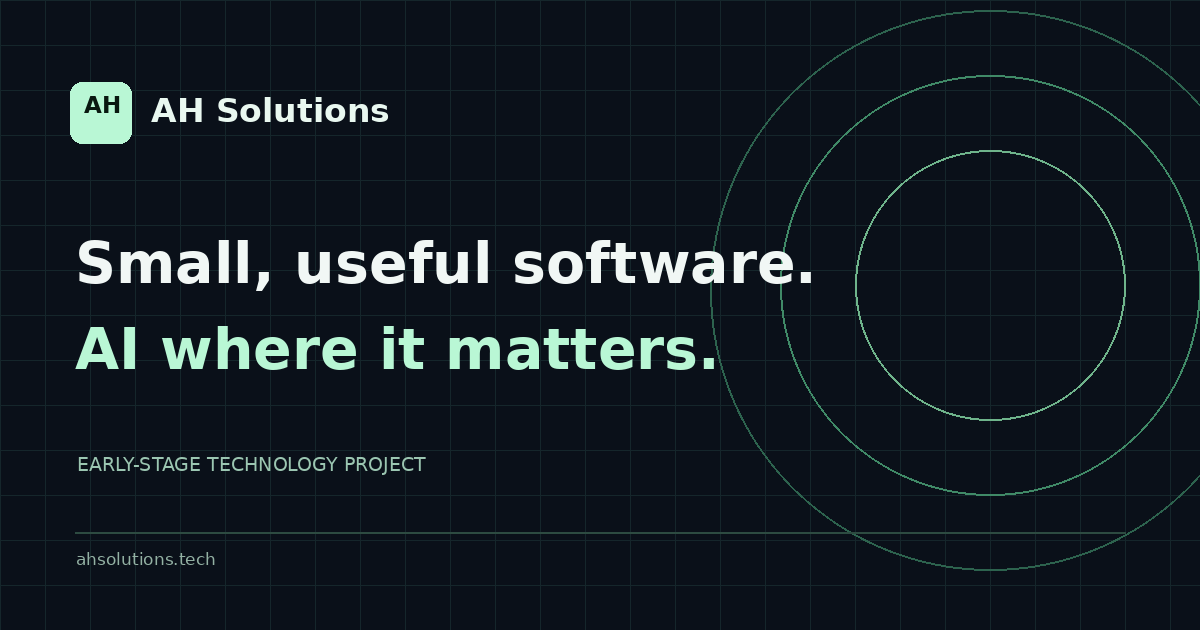
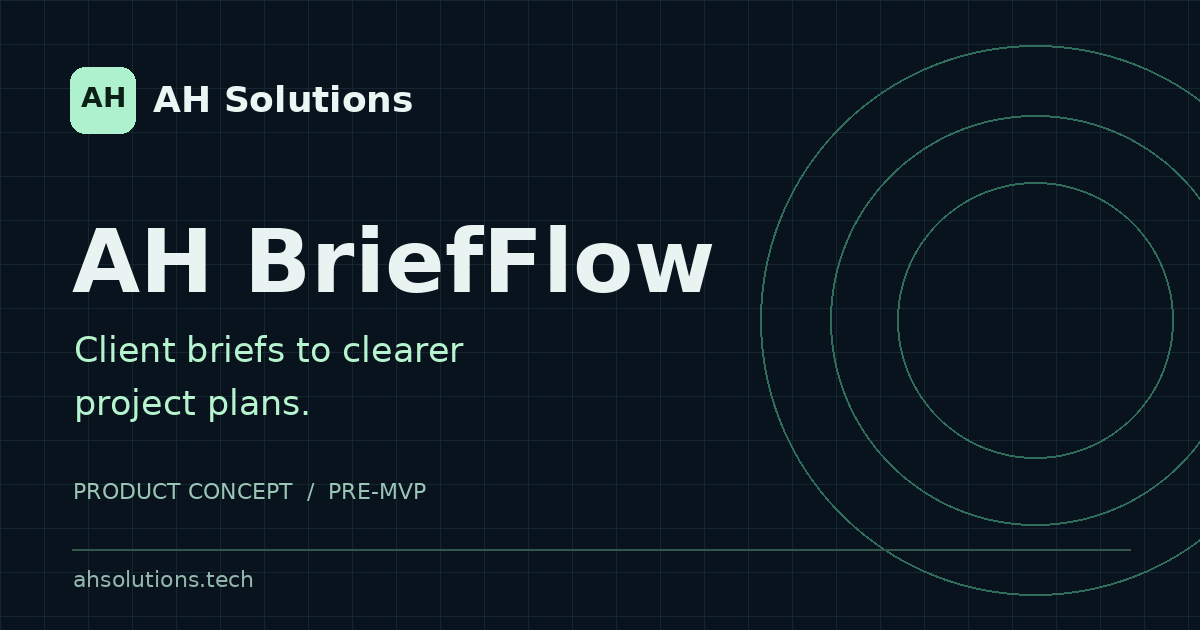
Introduce AH BriefFlow product concept

diff --git a/index.html b/index.html
@@ -5,21 +5,21 @@
     <meta name="viewport" content="width=device-width, initial-scale=1.0" />
     <meta name="theme-color" content="#0a1019" />
     <meta name="color-scheme" content="dark" />
-    <title>AH Solutions — Exploring Practical AI Software</title>
-    <meta name="description" content="AH Solutions is an early-stage technology project exploring practical software around modern AI capabilities. Learn about our direction and get in touch." />
+    <title>AH Solutions — AH BriefFlow | AI Client Brief &amp; Proposal Agent</title>
+    <meta name="description" content="AH BriefFlow is a proposed AI-assisted workflow by AH Solutions for turning unstructured client briefs into organized requirements, clarification questions, and proposal drafts. Concept stage; pre-MVP." />
     <meta name="robots" content="index,follow" />
     <link rel="canonical" href="https://ahsolutions.tech/" />
     <link rel="icon" href="/favicon.svg" type="image/svg+xml" />
     <meta property="og:type" content="website" />
     <meta property="og:site_name" content="AH Solutions" />
-    <meta property="og:title" content="AH Solutions — Exploring Practical AI Software" />
-    <meta property="og:description" content="Small, useful software. AI where it matters. An early-stage technology project focused on practical problems." />
+    <meta property="og:title" content="AH Solutions — AH BriefFlow (Concept)" />
+    <meta property="og:description" content="AH BriefFlow is an early-stage AI agent concept to turn client briefs into requirements, clarification questions, and proposal drafts. Pre-MVP." />
     <meta property="og:url" content="https://ahsolutions.tech/" />
     <meta property="og:image" content="https://ahsolutions.tech/og-card.png" />
-    <meta property="og:image:alt" content="AH Solutions, exploring practical AI software" />
+    <meta property="og:image:alt" content="AH Solutions brand visual for the AH BriefFlow concept" />
     <meta name="twitter:card" content="summary_large_image" />
-    <meta name="twitter:title" content="AH Solutions — Exploring Practical AI Software" />
-    <meta name="twitter:description" content="Small, useful software. AI where it matters." />
+    <meta name="twitter:title" content="AH Solutions — AH BriefFlow (Concept)" />
+    <meta name="twitter:description" content="AH BriefFlow: from client briefs to clearer project plans." />
     <meta name="twitter:image" content="https://ahsolutions.tech/og-card.png" />
     <link rel="stylesheet" href="/src/styles.css" />
     <script type="module" src="/src/main.ts"></script>
@@ -34,7 +34,7 @@
             <span class="brand-name">AH <span>Solutions</span></span>
           </a>
           <nav class="desktop-nav" aria-label="Main navigation">
-            <a href="#product">Our focus</a>
+            <a href="#product">AH BriefFlow</a>
             <a href="#approach">Approach</a>
             <a href="#vision">Vision</a>
           </nav>
@@ -42,7 +42,7 @@
           <details class="mobile-nav">
             <summary aria-label="Toggle menu"><span></span><span></span><span></span></summary>
             <nav aria-label="Mobile navigation">
-              <a href="#product">Our focus</a>
+              <a href="#product">AH BriefFlow</a>
               <a href="#approach">Approach</a>
               <a href="#vision">Vision</a>
               <a href="#contact">Contact</a>
@@ -54,63 +54,64 @@
       <main id="main">
         <section class="hero container" id="top" aria-labelledby="hero-title">
           <div class="hero-content">
-            <div class="eyebrow"><span class="status-dot" aria-hidden="true"></span> EARLY-STAGE TECHNOLOGY PROJECT</div>
-            <h1 id="hero-title">Small, useful software.<br /><em>AI where it matters.</em></h1>
-            <p class="hero-description">AH Solutions explores how modern AI can become practical, thoughtfully designed software for real-world workflows.</p>
-            <p class="hero-stage"><span aria-hidden="true">↗</span> Current stage: exploring our first focused product direction.</p>
+            <div class="eyebrow"><span class="status-dot" aria-hidden="true"></span> EARLY-STAGE PRODUCT CONCEPT · PRE-MVP</div>
+            <h1 id="hero-title">Turn messy client briefs<br /><em>into clearer project plans.</em></h1>
+            <p class="hero-description">AH BriefFlow is a proposed AI-assisted workflow for small software agencies and independent development teams: structure client requirements, identify missing details, and prepare proposal drafts for human review.</p>
+            <p class="hero-stage"><span aria-hidden="true">↗</span> Current stage: product concept selected; no public MVP or Claude API integration yet.</p>
             <div class="hero-actions">
-              <a class="button button-primary" href="#product">What we're exploring <span aria-hidden="true">↗</span></a>
+              <a class="button button-primary" href="#product">Explore the concept <span aria-hidden="true">↗</span></a>
               <a class="button button-secondary" href="mailto:anhdt@ahsolutions.tech">Contact us <span aria-hidden="true">↗</span></a>
             </div>
           </div>
           <div class="hero-visual" aria-hidden="true">
-            <div class="visual-top"><span>AH / EXPLORATION</span><span class="visual-plus">+</span></div>
+            <div class="visual-top"><span>AH / BRIEFFLOW · CONCEPT</span><span class="visual-plus">+</span></div>
             <div class="visual-center">
               <div class="orbit orbit-outer"></div><div class="orbit orbit-inner"></div>
               <div class="orbit-core">AH<span>●</span></div>
-              <div class="floating-tag tag-one">PROBLEM FIRST</div>
-              <div class="floating-tag tag-two">HUMAN IN CONTROL</div>
+              <div class="floating-tag tag-one">BRIEF → PLAN</div>
+              <div class="floating-tag tag-two">HUMAN REVIEW</div>
               <div class="tiny-point point-one"></div><div class="tiny-point point-two"></div>
             </div>
-            <div class="visual-bottom"><span>Direction over hype</span><span>01 / 03</span></div>
+            <div class="visual-bottom"><span>Product concept · pre-MVP</span><span>01 / 03</span></div>
           </div>
         </section>
 
         <section class="divider-section" aria-label="Our principles">
-          <div class="container principles-row"><span>Problem-led</span><i aria-hidden="true"></i><span>Carefully scoped</span><i aria-hidden="true"></i><span>Human-centered</span><i aria-hidden="true"></i><span>Built to be useful</span></div>
+          <div class="container principles-row"><span>Brief analysis</span><i aria-hidden="true"></i><span>Missing questions</span><i aria-hidden="true"></i><span>Proposal drafts</span><i aria-hidden="true"></i><span>Human review</span></div>
         </section>
 
         <section id="product" class="section container" aria-labelledby="product-title">
-          <div class="section-heading"><div><span class="section-kicker">01 / OUR FOCUS</span><h2 id="product-title">Exploring what is <span>worth building.</span></h2></div><p>Our first product is not being presented as launched or available. We are defining where a focused AI-assisted workflow could be genuinely useful.</p></div>
+          <div class="section-heading"><div><span class="section-kicker">01 / PRODUCT CONCEPT</span><h2 id="product-title">Introducing <span>AH BriefFlow.</span></h2></div><p>A proposed AI client-brief and proposal agent for small software agencies and independent development teams. This concept is not yet a launched product.</p></div>
           <div class="focus-panel">
-            <div class="focus-intro"><span class="mini-status"><span></span> PRODUCT DIRECTION IN EXPLORATION</span><h3>From real workflow friction to a practical first product.</h3><p>Our aim is to identify a specific problem, build a small testable solution, and learn from actual usage before making bigger promises.</p></div>
-            <div class="steps" aria-label="Our planned development approach">
-              <div class="step"><span>01</span><div><h4>Understand</h4><p>Find one clear user problem.</p></div><span class="step-arrow" aria-hidden="true">↗</span></div>
-              <div class="step"><span>02</span><div><h4>Prototype</h4><p>Test a focused AI-assisted workflow.</p></div><span class="step-arrow" aria-hidden="true">↗</span></div>
-              <div class="step"><span>03</span><div><h4>Learn</h4><p>Improve based on concrete feedback.</p></div><span class="step-arrow" aria-hidden="true">↗</span></div>
+            <div class="focus-intro"><span class="mini-status"><span></span> CONCEPT STAGE · PRE-MVP</span><h3>From unstructured briefs to a reviewable first project plan.</h3><p><strong>The problem:</strong> Client requirements often arrive as long documents, fragmented messages, and incomplete descriptions. Teams must manually clarify scope before they can prepare reliable proposals.</p><p><strong>For:</strong> Small software agencies and independent development teams handling early-stage client requests.</p><p><strong>Proposed outcome:</strong> A structured first draft that people can check, edit, and approve.</p></div>
+            <div class="steps" aria-label="Proposed AH BriefFlow workflow">
+              <div class="step"><span>01</span><div><h4>Intake</h4><p>Paste a brief or upload a permitted project document.</p></div><span class="step-arrow" aria-hidden="true">↗</span></div>
+              <div class="step"><span>02</span><div><h4>Analyze</h4><p>Extract requirements, constraints, and missing details.</p></div><span class="step-arrow" aria-hidden="true">↗</span></div>
+              <div class="step"><span>03</span><div><h4>Draft</h4><p>Prepare clarification questions, scope, and proposal outline.</p></div><span class="step-arrow" aria-hidden="true">↗</span></div>
+              <div class="step"><span>04</span><div><h4>Review</h4><p>Keep final decisions, editing, and sharing with the human user.</p></div><span class="step-arrow" aria-hidden="true">↗</span></div>
             </div>
           </div>
-          <p class="section-footnote">This is our intended development process, not a claim of an existing product, customers, or results.</p>
+          <p class="section-footnote">This is the intended product workflow, not a working demo or a claim of existing users, results, or Claude integration.</p>
         </section>
 
         <section id="approach" class="section section-alt" aria-labelledby="approach-title">
           <div class="container">
-            <div class="section-heading"><div><span class="section-kicker">02 / OUR APPROACH</span><h2 id="approach-title">Technology should <span>earn its place.</span></h2></div><p>We care about the work software makes easier, not simply the tools used to build it.</p></div>
+            <div class="section-heading"><div><span class="section-kicker">02 / TECHNOLOGY PLAN</span><h2 id="approach-title">Claude as a <span>reasoning engine.</span></h2></div><p>We plan to evaluate Claude through its first-party API for an agent workflow. No Claude API integration is claimed at this stage.</p></div>
             <div class="card-grid">
-              <article class="value-card"><div class="card-symbol" aria-hidden="true">⌁</div><span class="card-number">01 — CLARITY</span><h3>Start with the problem</h3><p>Define the task and the user before deciding whether AI is the right solution.</p></article>
-              <article class="value-card"><div class="card-symbol" aria-hidden="true">◈</div><span class="card-number">02 — PRACTICALITY</span><h3>Keep it focused</h3><p>Prefer a useful, limited workflow over a broad collection of promises.</p></article>
-              <article class="value-card"><div class="card-symbol" aria-hidden="true">↗</div><span class="card-number">03 — RELIABILITY</span><h3>Design for trust</h3><p>Make interactions understandable, with clear expectations and appropriate human oversight.</p></article>
+              <article class="value-card"><div class="card-symbol" aria-hidden="true">⌁</div><span class="card-number">01 — DOCUMENT UNDERSTANDING</span><h3>Structure complex briefs</h3><p>Explore extraction of goals, requirements, constraints, and assumptions from real project documents.</p></article>
+              <article class="value-card"><div class="card-symbol" aria-hidden="true">◈</div><span class="card-number">02 — AGENT WORKFLOW</span><h3>Reason through gaps</h3><p>Plan a tool-driven workflow for checking missing information and organizing the next questions to ask.</p></article>
+              <article class="value-card"><div class="card-symbol" aria-hidden="true">↗</div><span class="card-number">03 — HUMAN OVERSIGHT</span><h3>Keep people in control</h3><p>Designed for reviewable outputs: no automatic client emails, binding quotes, or commitments without approval.</p></article>
             </div>
           </div>
         </section>
 
         <section id="vision" class="section container vision-section" aria-labelledby="vision-title">
-          <span class="section-kicker">03 / VISION</span><div class="vision-layout"><h2 id="vision-title">Less AI theater.<br /><span>More useful work.</span></h2><div><p>We believe the most valuable AI software will feel less like a spectacle and more like a tool that fits naturally into what people already need to do.</p><a class="text-link" href="mailto:anhdt@ahsolutions.tech?subject=Hello%20AH%20Solutions">Start a conversation <span aria-hidden="true">↗</span></a></div></div>
+          <span class="section-kicker">03 / NEXT MILESTONE</span><div class="vision-layout"><h2 id="vision-title">Build small.<br /><span>Test with real briefs.</span></h2><div><p>The next milestone for AH BriefFlow is a narrow prototype: accept a sample brief, generate structured requirements and clarification questions, and assemble a human-editable proposal draft. We will assess usefulness before making broader claims.</p><a class="text-link" href="mailto:anhdt@ahsolutions.tech?subject=AH%20BriefFlow%20concept">Discuss the concept <span aria-hidden="true">↗</span></a></div></div>
         </section>
 
-        <section id="contact" class="contact-section" aria-labelledby="contact-title"><div class="container contact-inner"><div><span class="section-kicker">04 / CONTACT</span><h2 id="contact-title">Let's build<br /><span>something useful.</span></h2><p>Questions, ideas, or opportunities to connect? We'd like to hear from you.</p></div><a class="contact-address" href="mailto:anhdt@ahsolutions.tech">anhdt@ahsolutions.tech <span aria-hidden="true">↗</span></a></div></section>
+        <section id="contact" class="contact-section" aria-labelledby="contact-title"><div class="container contact-inner"><div><span class="section-kicker">04 / CONTACT</span><h2 id="contact-title">Let's build<br /><span>something useful.</span></h2><p>Interested in the AH BriefFlow concept, or have experience working with client briefs? Get in touch.</p></div><a class="contact-address" href="mailto:anhdt@ahsolutions.tech">anhdt@ahsolutions.tech <span aria-hidden="true">↗</span></a></div></section>
       </main>
-      <footer class="site-footer"><div class="container footer-inner"><a class="footer-brand" href="#top">AH Solutions</a><span>Independent early-stage technology project</span><span>© 2026 AH Solutions</span></div></footer>
+      <footer class="site-footer"><div class="container footer-inner"><a class="footer-brand" href="#top">AH Solutions</a><span>AH BriefFlow · early-stage product concept</span><span>© 2026 AH Solutions</span></div></footer>
     </div>
   </body>
 </html>
